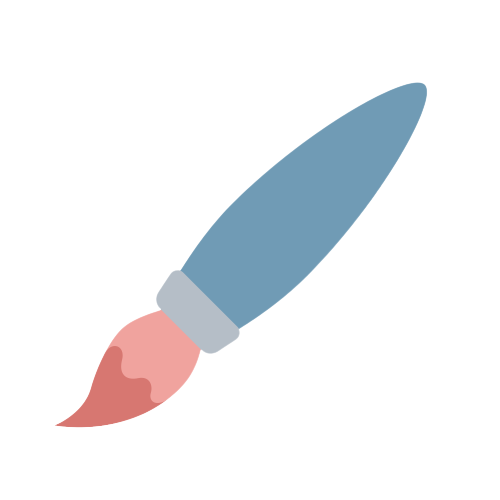
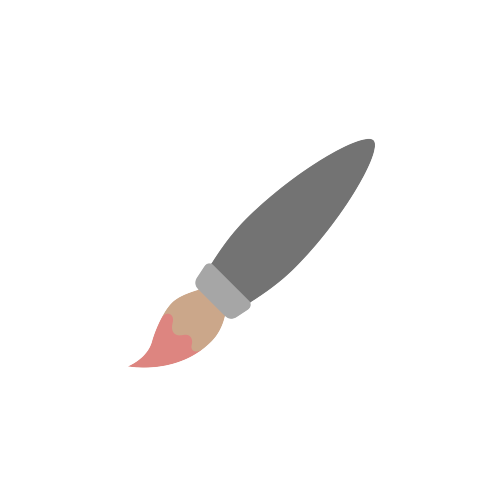
update hobby images, add travel and link to blog

Changed region(s): [[0.12, 0.15, 0.87, 0.87]]

diff --git a/hobbies/index.html b/hobbies/index.html
@@ -90,31 +90,26 @@
 
 			<div class="flex-table">
 				<div class="entry">
-					<a href=""
-						><img
-							src="../images/paintbrush.png"
-							alt="temp photo"
-							class="hobby-picture"
+					<a href="https://avaabroad.com/" target="_blank"
+						><img src="../images/travel.png" alt="travel" class="hobby-picture"
 					/></a>
-					<h2 class="hobby-title">PAINTING</h2>
 				</div>
+
 				<div class="entry">
 					<a href=""
 						><img
 							src="../images/cooking.png"
-							alt="temp photo"
+							alt="cooking"
 							class="hobby-picture"
 					/></a>
-					<h2 class="hobby-title">COOKING</h2>
 				</div>
 				<div class="entry">
 					<a href=""
 						><img
-							src="../images/placeholder-p1.png"
-							alt="temp photo"
+							src="../images/paintbrush.png"
+							alt="painting"
 							class="hobby-picture"
 					/></a>
-					<h2 class="hobby-title">HOBBY PLACEHOLDER</h2>
 				</div>
 			</div>
 		</div>
